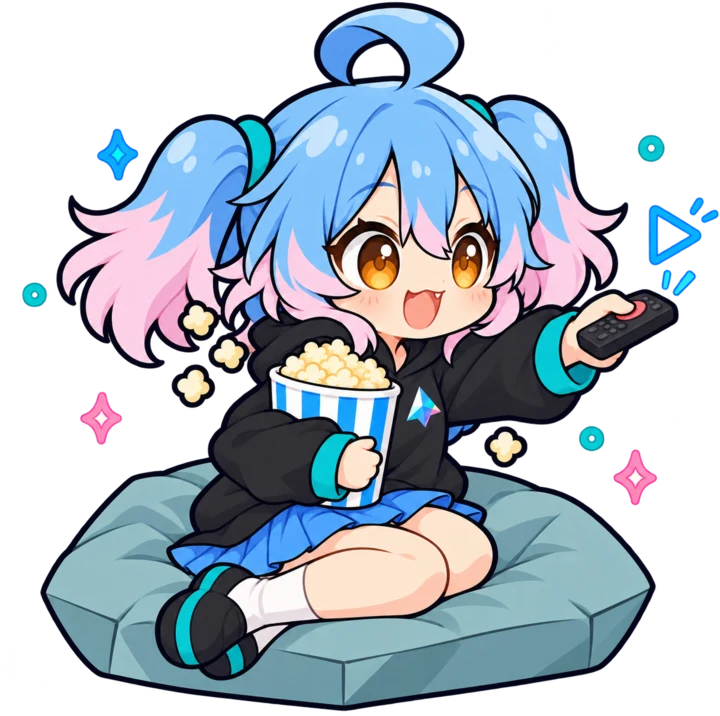
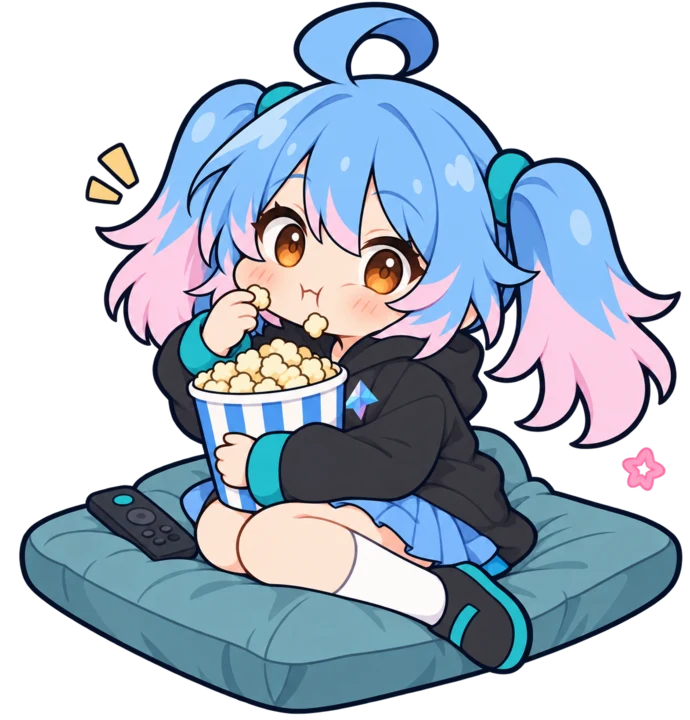
refactor(web): move the empty state into a component

diff --git a/apps/web/src/routes/(protected)/(browse)/watchlist/+page.svelte b/apps/web/src/routes/(protected)/(browse)/watchlist/+page.svelte
@@ -1,6 +1,7 @@
 <script lang="ts">
 	import emptyHistory from "$lib/assets/illustrations/empty-history.webp";
 	import emptyWatchlist from "$lib/assets/illustrations/empty-watchlist.webp";
+	import EmptyState from "$lib/components/EmptyState.svelte";
 	import Skeleton from "$lib/components/snippets/Skeleton.svelte";
 	import { audioLabel, cn } from "$lib/utils";
 	import { BookmarkSimpleIcon } from "phosphor-svelte";
@@ -25,24 +26,6 @@
 	const watchlist = getWatchlist();
 	const history = getHistory();
 </script>
-
-{#snippet empty(image: string, height: number, title: string, hint: string)}
-	<div
-		class="flex flex-col items-center border-2 border-dotted border-muted px-5 py-14 text-center"
-	>
-		<img src={image} alt="" width="720" {height} class="w-80" />
-		<p class="mt-8 text-muted">
-			{title}<br />
-			{hint}
-		</p>
-		<a
-			href="/"
-			class="mt-6 inline-flex min-h-11 items-center bg-accent px-5 text-xs font-bold text-on-accent uppercase hover:brightness-110"
-		>
-			Go to home feed
-		</a>
-	</div>
-{/snippet}
 
 <svelte:head>
 	<title>{tab === "history" ? "History" : "Watchlist"}</title>
@@ -81,12 +64,13 @@
 
 	<div class="mx-auto max-w-7xl">
 		{#if tab === "watchlist" && watchlist.current?.length === 0}
-			{@render empty(
-				emptyWatchlist,
-				700,
-				"Your watchlist is looking a little empty.",
-				"Let's fill it up with something to watch.",
-			)}
+			<EmptyState
+				image={emptyWatchlist}
+				width={720}
+				height={700}
+				title="Your watchlist is looking a little empty."
+				hint="Let's fill it up with something to watch."
+			/>
 		{:else if tab === "watchlist"}
 			<ul class={grid}>
 				{#if watchlist.current}
@@ -117,12 +101,13 @@
 				{/if}
 			</ul>
 		{:else if history.current?.length === 0}
-			{@render empty(
-				emptyHistory,
-				716,
-				"Nothing watched yet.",
-				"Start an episode and it'll show up here.",
-			)}
+			<EmptyState
+				image={emptyHistory}
+				width={690}
+				height={720}
+				title="Nothing watched yet."
+				hint="Start an episode and it'll show up here."
+			/>
 		{:else}
 			<ul class={grid}>
 				{#if history.current}

diff --git a/apps/web/src/lib/components/EmptyState.svelte b/apps/web/src/lib/components/EmptyState.svelte
@@ -1,0 +1,25 @@
+<script lang="ts">
+	interface Props {
+		image: string;
+		width: number;
+		height: number;
+		title: string;
+		hint: string;
+	}
+
+	let { image, width, height, title, hint }: Props = $props();
+</script>
+
+<div class="flex flex-col items-center border-2 border-dotted border-muted px-5 py-14 text-center">
+	<img src={image} alt="" {width} {height} class="w-80" />
+	<p class="mt-8 text-muted">
+		{title}<br />
+		{hint}
+	</p>
+	<a
+		href="/"
+		class="mt-6 inline-flex min-h-11 items-center bg-accent px-5 text-xs font-bold text-on-accent uppercase hover:brightness-110"
+	>
+		Go to home feed
+	</a>
+</div>
